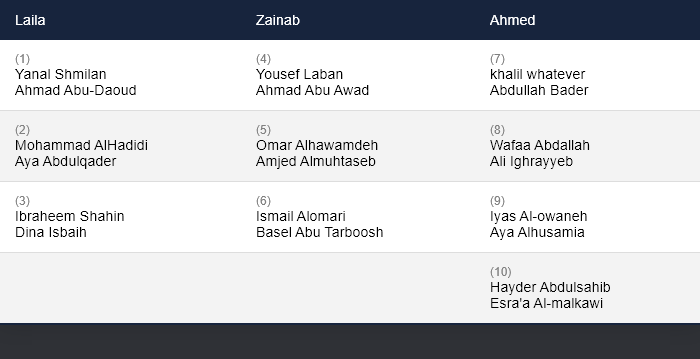
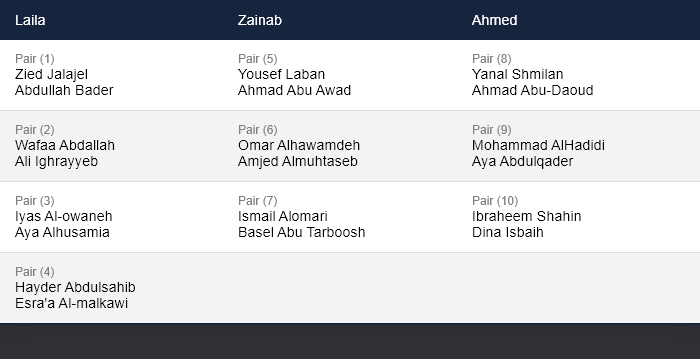
Reorganized the code

diff --git a/index.js b/index.js
@@ -94,23 +94,25 @@ const client = new Client();
 client.on("ready", () => {
   console.log(`Logged in as ${client.user.tag}!`);
 });
-
-client.on("message", (msg) => {
-  if (msg.content.includes("!setGroup")) {
-    currentGroup = msg.content.split("!setGroup ")[1];
-    msg.reply("Current group now is :" + currentGroup);
+client.on("message", async (msg) => {
+  // if (msg.content.includes("!setGroup")) {
+  //   currentGroup = msg.content.split("!setGroup ")[1];
+  //   msg.reply("Current group now is :" + currentGroup);
+  // }
+  if (msg.author.bot) return;
+  if (msg.channel.name.split("-")[0] === "yanal") {
+    currentGroup = "JO21";
+  } else {
+    currentGroup = msg.channel.name.split("-")[0].toUpperCase();
   }
-  // Attach
-  else if (msg.content === "!wow") {
+
+  console.log(currentGroup);
+  if (msg.content === "!wow") {
     const attachment = new MessageAttachment(
       "https://cdn140.picsart.com/308864669055201.gif?to=min&r=640"
     );
     msg.channel.send(attachment);
-  }
-});
-// easter eggs
-client.on("message", (msg) => {
-  if (msg.content.includes("!laila")) {
+  } else if (msg.content.includes("!laila")) {
     msg.reply("Is the best instructor");
   }
   // Attach
@@ -130,13 +132,7 @@ client.on("message", (msg) => {
     msg.reply("فلاح");
   } else if (msg.content === "!yanal") {
     msg.reply(":hatching_chick:");
-  }
-});
-
-// Help
-client.on("message", (msg) => {
-  if (msg.author.bot) return;
-  if (msg.content === "!helpMe") {
+  } else if (msg.content === "!helpMe") {
     const helpMsg1 = ` \`\`\`  
     Welcome to Ahmad2.0 Discord Bot, made in inhuman conditions under the supervision of Laila A to help you generate 
     Instructor of the day and Pairs for your students. \n \`\`\`  `;
@@ -194,75 +190,30 @@ client.on("message", (msg) => {
     msg.channel.send(helpMsg5);
 
     return msg.channel.send(helpMsg6);
-  }
-  return;
-});
-
-// adding a student
-client.on("message", (msg) => {
-  if (msg.author.bot) return;
-
-  if (msg.content.includes("!addStudent")) {
+  } else if (msg.content.includes("!addStudent")) {
     const name = msg.content.split("!addStudent ")[1];
     add(name, "student");
     return msg.reply(`Student ${name} added.`);
-  }
-});
-// adding an instructor
-client.on("message", (msg) => {
-  if (msg.author.bot) return;
-
-  if (msg.content.includes("!addInstructor")) {
+  } else if (msg.content.includes("!addInstructor")) {
     const name = msg.content.split("!addInstructor ")[1];
     add(name, "instructors");
     return msg.reply(`Instructor ${name} Added`);
-  }
-});
-// adding list of Students
-client.on("message", (msg) => {
-  if (msg.author.bot) return;
-
-  if (msg.content.includes("!bulkStudents")) {
+  } else if (msg.content.includes("!bulkStudents")) {
     const names = msg.content.split("!bulkStudents ")[1];
     bulkAdd(names, "student");
     return msg.reply(`Students added.`);
-  }
-});
-// adding list of Instructors
-client.on("message", (msg) => {
-  if (msg.author.bot) return;
-
-  if (msg.content.includes("!bulkInstructors")) {
+  } else if (msg.content.includes("!bulkInstructors")) {
     const names = msg.content.split("!bulkInstructors ")[1];
     bulkAdd(names, "instructors");
     return msg.reply(`Instructors added.`);
-  }
-});
-
-// clearing the db
-client.on("message", (msg) => {
-  if (msg.author.bot) return;
-
-  if (msg.content.includes("!clearDb")) {
+  } else if (msg.content.includes("!clearDb")) {
     Names.sync({ force: true });
     return msg.reply(`Names cleard.`);
-  }
-});
-
-// deleting a name
-client.on("message", (msg) => {
-  if (msg.author.bot) return;
-
-  if (msg.content.includes("!removeName")) {
+  } else if (msg.content.includes("!removeName")) {
     const name = msg.content.split("!removeName ")[1];
     del(name);
     return msg.reply(`Name ${name} deleted.`);
-  }
-});
-client.on("message", (msg) => {
-  if (msg.author.bot) return;
-
-  if (msg.content.includes("!imagetest")) {
+  } else if (msg.content.includes("!imagetest")) {
     nodeHtmlToImage({
       output: "./image.png",
       html: `<html>
@@ -288,28 +239,14 @@ client.on("message", (msg) => {
       console.log("The image was created successfully!");
       msg.reply(new MessageAttachment("./image.png"));
     });
-
     return;
-  }
-});
-// listing names
-client.on("message", async (msg) => {
-  if (msg.author.bot) return;
-
-  if (msg.content.includes("!listNames")) {
+  } else if (msg.content.includes("!listNames")) {
     let names = await Names.findAll({
       attributes: ["name"],
     });
     names = names.map((name) => name.name);
     return msg.reply(`Names: ${names.toString()}.`);
-  }
-});
-
-// creating pairs
-client.on("message", async (msg) => {
-  if (msg.author.bot) return;
-
-  if (msg.content.includes("!pairs")) {
+  } else if (msg.content.includes("!pairs")) {
     let exculdeNames = msg.content.split("!pairs ")[1]
       ? msg.content.split("!pairs ")[1].split(",")
       : [];
@@ -385,7 +322,7 @@ client.on("message", async (msg) => {
             ? fakecounter++
               ? ""
               : ""
-            : "<small style='color:grey'>(" +
+            : "<small style='color:grey'>Pair (" +
               (counter - fakecounter) +
               ")</small> " +
               "<br> " +
@@ -500,14 +437,7 @@ client.on("message", async (msg) => {
     // return `\`\`\` Pair ${i}: ${pair[0]} ${
     //   pair[1] ? `- ${pair[1]}` : ""
     // } \`\`\``;
-  }
-});
-
-// creating Iod
-client.on("message", async (msg) => {
-  if (msg.author.bot) return;
-
-  if (msg.content.includes("!iod")) {
+  } else if (msg.content.includes("!iod")) {
     let thArray = [];
     let tableBody = [];
     let exculdeNames = msg.content.split("!iod ")[1]
@@ -824,5 +754,8 @@ client.on("message", async (msg) => {
       });
     }
   }
+});
+client.on("message", async (msg) => {
+  if (msg.author.bot) return;
 });
 client.login(process.env.TOKEN);
